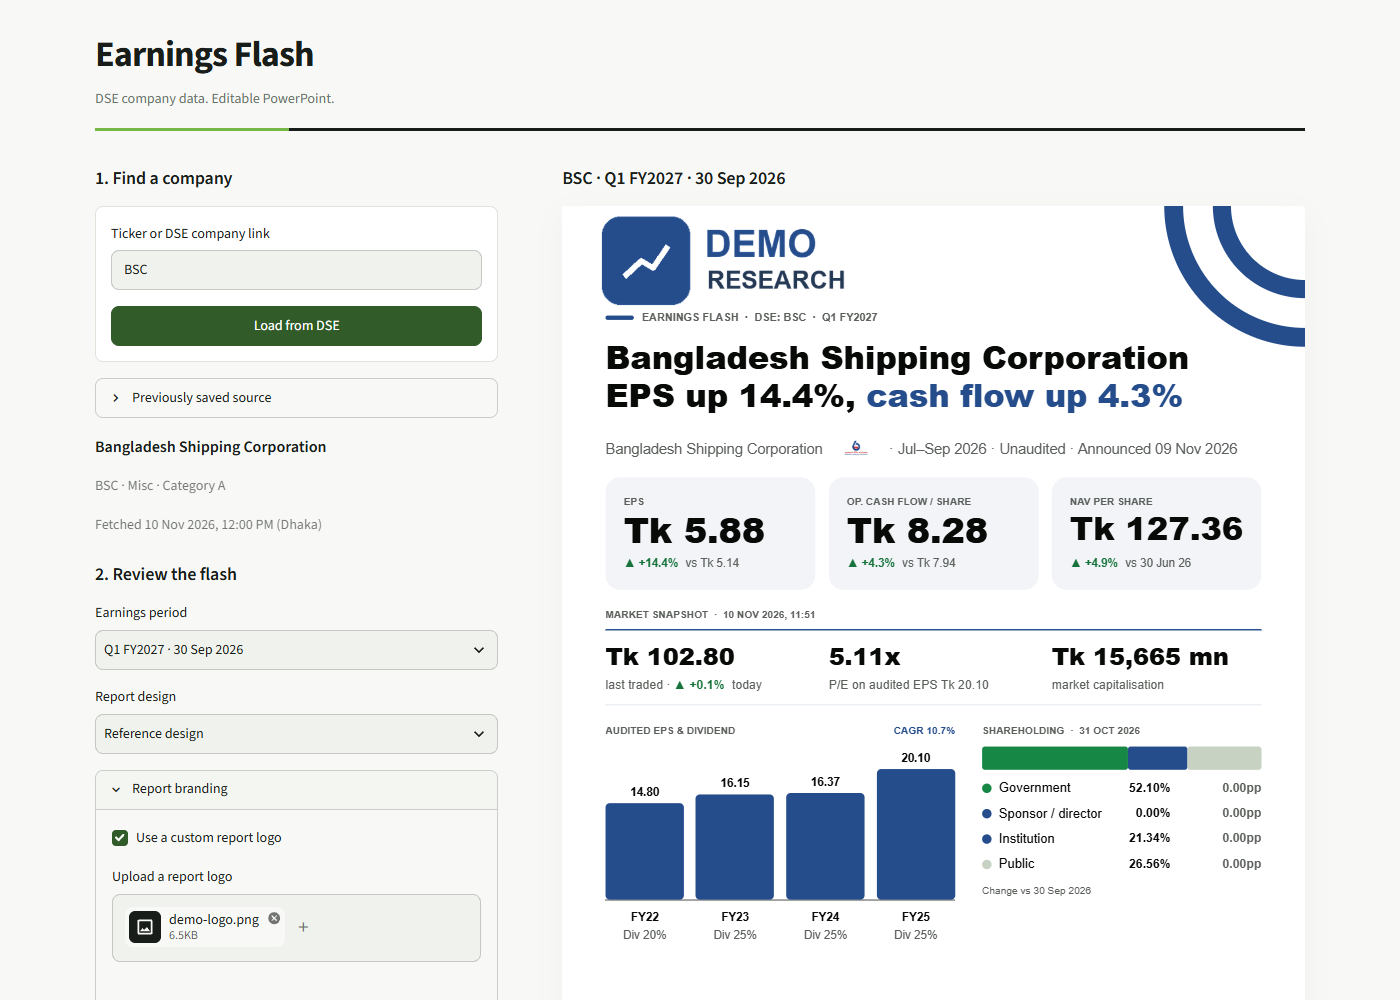
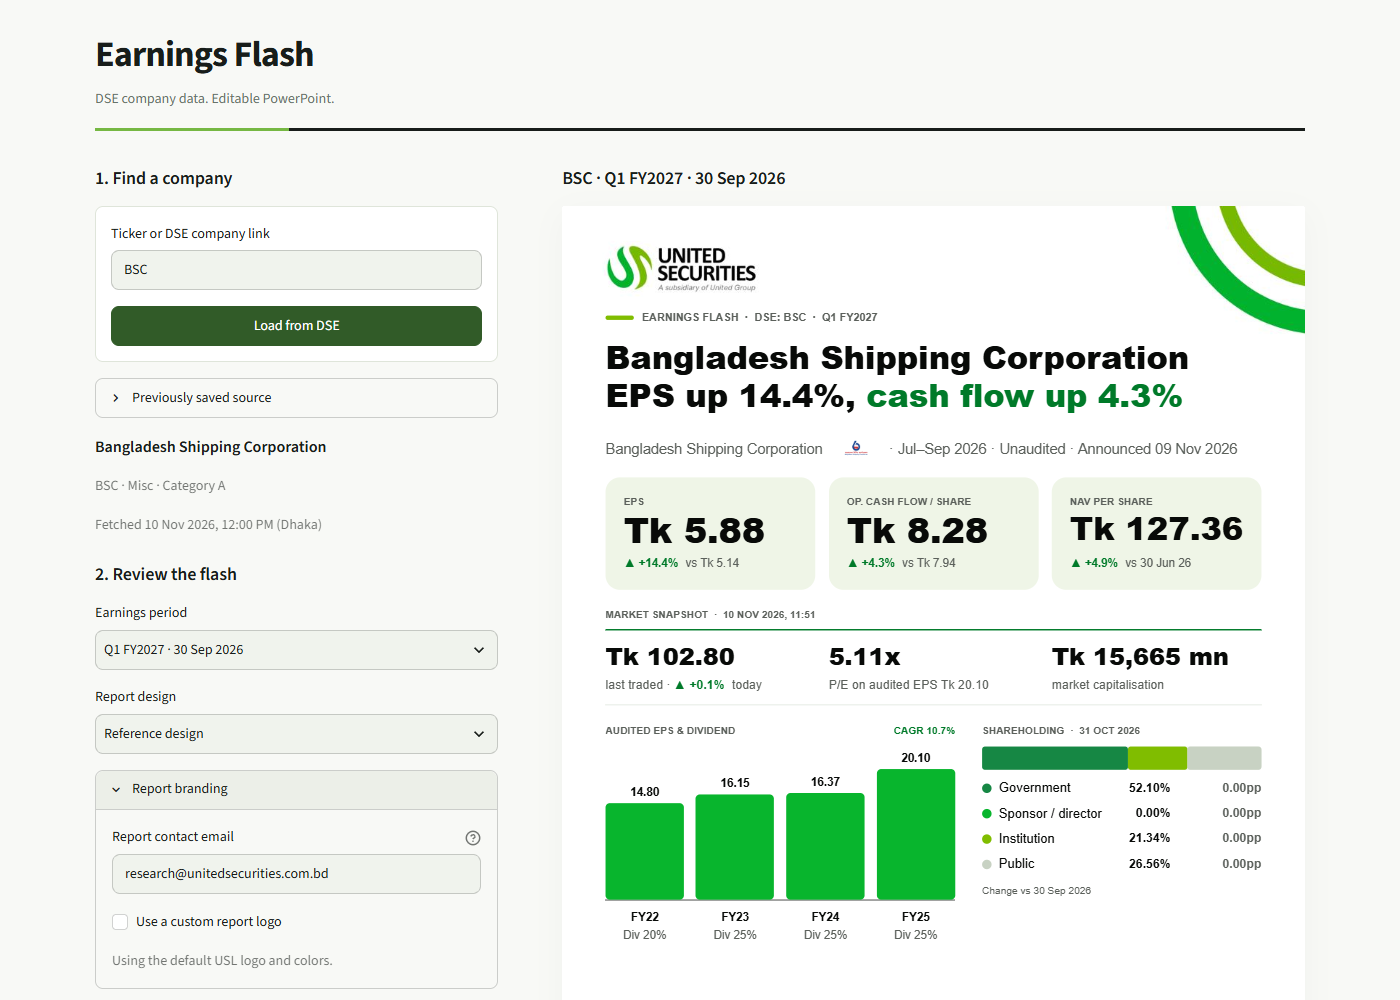
Restore USL-branded portfolio screenshots

diff --git a/index.html b/index.html
@@ -9,9 +9,9 @@
 <p>A local application that converts Dhaka Stock Exchange company disclosures into consistent, editable PowerPoint and searchable PDF earnings summaries.</p>
 <p class="stack">Python · Streamlit · Requests · XML / JSON · ReportLab · Pillow · C# · Git</p>
 <h2>The problem</h2><p>Preparing an earnings flash requires collecting public disclosures, checking comparable periods and transferring figures into a consistent report. Manual copying makes the process repetitive and can mix quarterly and cumulative results.</p>
-<h2>What I built</h2><ul><li>DSE ticker lookup and structured financial-disclosure parsing.</li><li>Explicit period and unit checks, with missing figures kept distinct from zero.</li><li>Automatic issuer-logo lookup and optional publisher branding that derives report colors from an uploaded logo.</li><li>Rule-based earnings commentary drawn from matching public disclosures, with editable wording.</li><li>Three report designs with editable PowerPoint and searchable PDF exports to a user-selected folder.</li><li>A Windows launcher and regression tests for reporting periods and export behavior.</li></ul>
-<h2>Application preview</h2><figure><img src="app-preview.png" alt="Local earnings-report application showing ticker lookup and a report preview"><figcaption>The app previews the palette from a fictional demo logo using a public BSC disclosure. Market figures are dated.</figcaption></figure>
-<h2>Report preview</h2><figure class="report"><img src="earnings-flash.png" alt="One-page earnings report with financial comparisons and research commentary"><figcaption>Reference design rendered from the generated PDF using the same demo logo and palette.</figcaption></figure>
+<h2>What I built</h2><ul><li>DSE ticker lookup and structured financial-disclosure parsing.</li><li>Explicit period and unit checks, with missing figures kept distinct from zero.</li><li>Automatic issuer-logo lookup and optional publisher branding that derives report colors from an uploaded logo, plus an editable footer email.</li><li>Rule-based earnings commentary drawn from matching public disclosures, with editable wording.</li><li>Three report designs with editable PowerPoint and searchable PDF exports to a user-selected folder.</li><li>A Windows launcher and regression tests for reporting periods and export behavior.</li></ul>
+<h2>Application preview</h2><figure><img src="app-preview.png" alt="Local earnings-report application showing ticker lookup and a report preview"><figcaption>The app shows the default USL branding and the editable contact email using a public BSC disclosure. Market figures are dated.</figcaption></figure>
+<h2>Report preview</h2><figure class="report"><img src="earnings-flash.png" alt="One-page earnings report with financial comparisons and research commentary"><figcaption>Reference design rendered from the generated PDF with the default USL logo and colors.</figcaption></figure>
 <h2>Design choices</h2><p>The application runs locally without an AI service or API key. Period comparisons use fixed rules rather than estimating missing financial totals. Downloads and exports remain on the user's machine.</p>
 <h2>Source and access</h2><p>The complete application repository is private. Source and implementation details can be shared with reviewers on request. This page is a read-only case study: it has no live app, uploads, backend or financial-data connection.</p>
 <footer>For information only. This case study is not a direct buy signal or an offer to buy or sell securities. Financial screenshots use public, dated disclosures. Logos identify their respective owners.</footer>

diff --git a/README.md b/README.md
@@ -2,10 +2,10 @@
 
 A portfolio case study of a Windows app that turns Dhaka Stock Exchange disclosures into one-page earnings reports. Open [the case study](index.html) in a browser to see the workflow and report.
 
-The app checks reporting periods before comparing figures, supports three report designs, and exports editable PowerPoint and searchable PDF files to a folder selected by the user. An optional logo upload applies a matching palette to both the report preview and exports.
+The app checks reporting periods before comparing figures, supports three report designs, and exports editable PowerPoint and searchable PDF files to a folder selected by the user. An optional logo upload applies a matching palette to both the report preview and exports. The footer contact email is editable.
 
-![Earnings Flash app with the report branding controls open and a blue report preview](app-preview.png)
+![Earnings Flash app with the report branding controls open and a USL-branded report preview](app-preview.png)
 
-![BSC earnings report using a fictional blue Demo Research logo](earnings-flash.png)
+![BSC earnings report using the default USL branding](earnings-flash.png)
 
-The screenshots use a public BSC disclosure and dated market figures. The logo is fictional. Application source and implementation assets are kept in the private repository.
+The screenshots use a public BSC disclosure and dated market figures. Both screenshots use the default USL branding. Application source and implementation assets are kept in the private repository.
